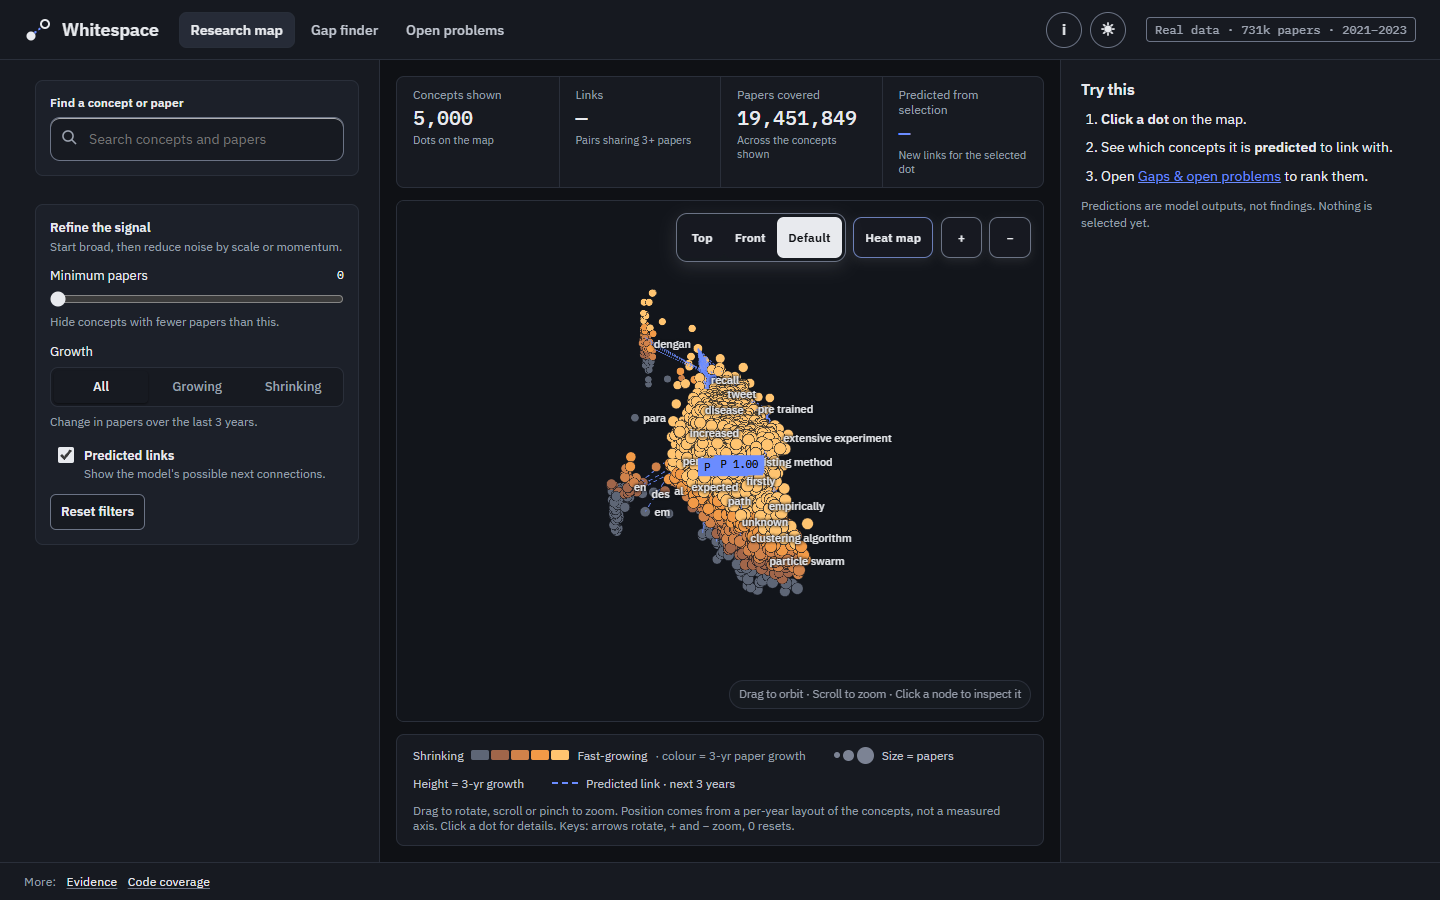
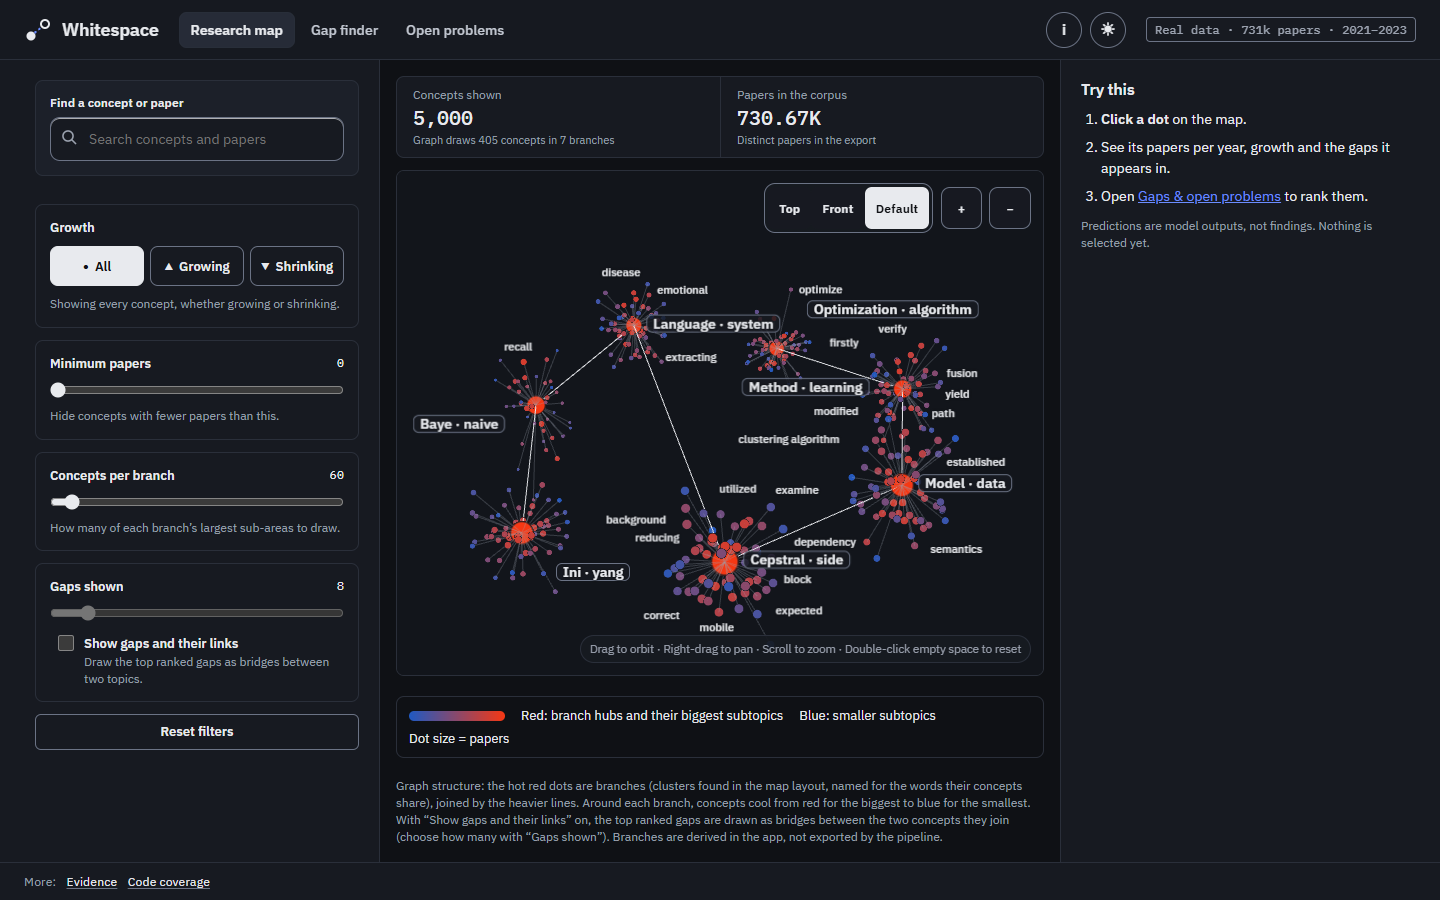
docs(#252): recapture the branch-graph map and describe it

diff --git a/README.md b/README.md
@@ -27,7 +27,7 @@ Research moves faster than people can read it. Search finds work that already ex
 
 ## What it does
 
-- **Research map:** explore the latest snapshot as a 3D concept map. Concepts are sized by paper count and coloured by growth; selecting one reveals its trend, predicted gaps and supporting papers. The map has no time slider.
+- **Research map:** explore the latest snapshot as a 3D graph. Branch hubs are clusters found in the map layout and named for the words their concepts share; they are derived in the app, not exported by the pipeline. Each branch links to its largest concepts, coloured from red for the biggest to blue for the smallest. An option draws the top-ranked gaps as bridges between the two concepts they join. Selecting a branch, concept or gap opens its details; a concept shows its papers per year, its growth and the gaps it appears in. The summary counts distinct papers in the corpus. The map has no time slider.
 - **Gap finder:** review unlinked concept pairs, their scores and supporting papers. Summary stats count only concepts with positive growth. Search matches concept names only; paper search and author-stated open problems are not in the current export, so those views say so instead of showing data.
 - **Evidence:** at [`/evidence`](https://whitespace-hacktheburgh-26.vercel.app/evidence), a headline card states the pre-registered verdict (aggregate only) with its caveats and a link to issue #122. A technical-detail section holds ranking tables comparing each method's P@100, AP and ROC AUC against the base rate, calibration, and hits and misses. The paper-to-code hand-check is shown as not yet measured.
 - **Code coverage:** explore the concept-by-year archive coverage and papers without a linked record at [`/coverage`](https://whitespace-hacktheburgh-26.vercel.app/coverage). Coverage uses publication years, so its range can differ from the map's snapshot years.
@@ -40,7 +40,7 @@ The header navigation has three tabs: Research map, Gap finder and Open problems
   <img alt="Code coverage page" src="docs/images/coverage.png" width="32%">
 </p>
 
-*Gap finder, Evidence and Code coverage on the live site, real data (snapshots 2021–2023). The gap list is a production forecast whose outcomes are not yet observed.*
+*Gap finder, Evidence and Code coverage on the live site, real data (snapshots 2021–2023). The gap list is a production forecast whose outcomes are not yet observed; read its likelihoods as a ranking, not as calibrated chances.*
 
 ## Results
 
